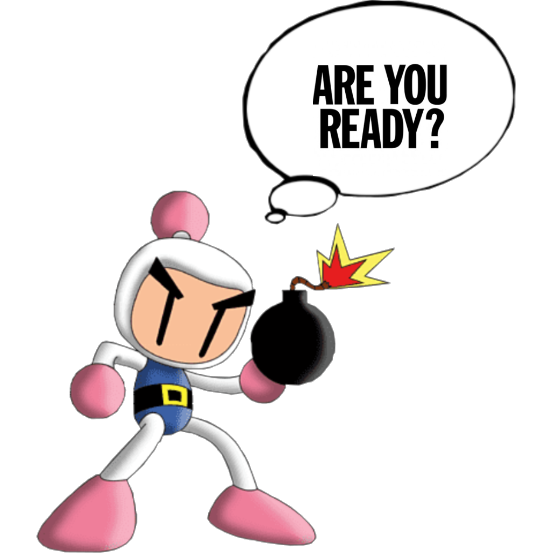
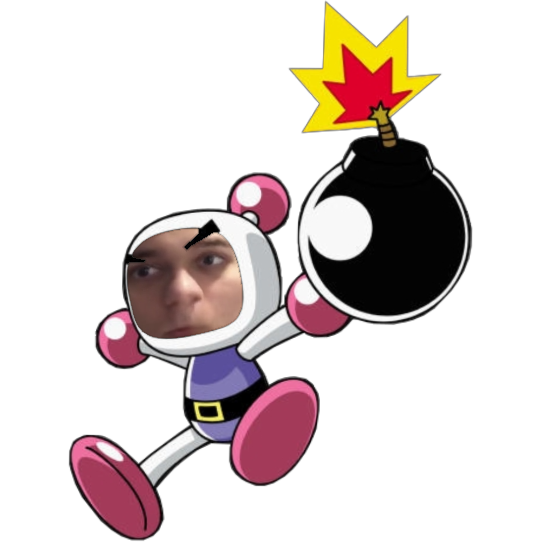
Menu de création de partie terminé

diff --git a/src/Game/Game.cpp b/src/Game/Game.cpp
@@ -19,6 +19,8 @@ vector<Button*> buttons;
 vector<Label*> labels;
 vector<Image*> images;
 
+Wall* wall;
+
 Game* Game::m_instance = nullptr;
 
 Game::Game() : m_currentTime(0), m_deltaTime(0), m_mousePos(vec2(0.0f)), m_directionalLight(vec3(-1.0f, -1.0f, -1.0f), vec3(0.1f), vec3(1.0f), vec3(1.0f)), m_gameState(GameState::MAIN_MENU), m_vsync(VSync::ONE_FRAME)
@@ -48,7 +50,7 @@ bool Game::init()
 		return false;
     }
 
-    loadRequieredResources();
+	loadRequieredResources();
 
     glfwSwapInterval(m_vsync);
 	glClearColor(0, 0, 0, 1);
@@ -91,12 +93,12 @@ bool Game::loadRequieredResources()
 	std::vector<string> assets = {
 		"white_texture.png", "black_texture.png", "home_background.png",
 		"space_background.png", "bomberboy_1.png", "bomberboy_2.png",
-		"blue_rectangle.png"
+		"bomberboy_3.png", "blue_rectangle.png"
 	};
 	std::vector<Texture*> textures = {
 		&Textures::whiteTexture, &Textures::blackTexture, &Textures::homeBackground,
 		&Textures::spaceBackground, &Textures::bomberboy1, &Textures::bomberboy2,
-		&Textures::blueRectangle
+		&Textures::bomberboy3, &Textures::blueRectangle
 	};
 	for (uint i = 0; i < assets.size(); i++) {
 		if (!Resource::loadTexture(("assets/"+assets[i]).c_str(), *textures[i])) {
@@ -239,7 +241,8 @@ void Game::setState(GameState state)
 
 		/* Load Images */
 		images.push_back(new Image(mainWindow, vec2(0, 0), vec2(0.5f, 0.5f), vec2(WINDOW_W/2), &Textures::blueRectangle));
-		images.push_back(new Image(mainWindow, vec2(0, 0), vec2(0.0f, 0.5f), vec2(WINDOW_W/4), &Textures::bomberboy1));
+		images.push_back(new Image(mainWindow, vec2(40, 100), vec2(1.0f, 0.0f), vec2(WINDOW_W/4), &Textures::bomberboy2));
+		images.push_back(new Image(mainWindow, vec2(0, 100), vec2(0.0f, 0.5f), vec2(WINDOW_W/3), &Textures::bomberboy3));
 		images.push_back(new Image(mainWindow, vec2(0, 0), vec2(0.5f, 0.5f), vec2(WINDOW_W), &Textures::spaceBackground));
 
 		cerr << "Loaded singleplayer menu in " << (glfwGetTime() - time) * 1000 << "ms" << endl;
@@ -259,16 +262,15 @@ void Game::setState(GameState state)
 		});
 
 		map = new Map();
-		map->generateMap(m_gameSettings[0]);
+		map->generateMap(m_gameSettings[0], m_gameSettings[2]);
 		
 		// Test de robots
-		for (int i=0; i < 10; i++) {
+		for (int i=0; i < m_gameSettings[4]; i++) {
 			Robot* robot = new Robot(map);
-			Bomb* bomb = new Bomb(map, vec3(rand()%100/100.0f, rand()%100/100.0f, rand()%100/100.0f), 5, 5);
-			robot->getTransform().setPosition(vec3(6.0f, 0.0f, 6.0f));
-			bomb->getTransform().setPosition(vec3(rand()%11+1, 0, rand()%11+1));
+			robot->getTransform().setPosition(vec3(1.0f, 0.0f, 1.0f) * float(rand()%m_gameSettings[0]));
+			//Bomb* bomb = new Bomb(map, vec3(rand()%100/100.0f, rand()%100/100.0f, rand()%100/100.0f), 5, 5);
+			//bomb->getTransform().setPosition(vec3(rand()%11+1, 0, rand()%11+1));
 			map->addActor(robot);
-			map->addActor(bomb);
 		}
 		
 		mainCamera->getTransform().setPosition(vec3(-6.0f, -12.0f, -16.0f));
@@ -281,6 +283,11 @@ void Game::setState(GameState state)
 	m_gameState = state;
 }
 
+bool Game::postInit() {
+	wall = new Wall(map);
+	return true;
+}
+
 void Game::update()
 {
 	glClear(GL_COLOR_BUFFER_BIT | GL_DEPTH_BUFFER_BIT);
@@ -290,7 +297,7 @@ void Game::update()
 
 	processInputs(mainWindow->getWindow());
 
-	Wall* wall = new Wall(map); wall->draw(); delete wall;
+	wall->draw();
 	for (auto label : labels) { label->draw(); }
 	for (auto button : buttons) { button->draw(); }
 	for (auto image : images) { image->draw(); }

diff --git a/src/Game/Map.cpp b/src/Game/Map.cpp
@@ -16,16 +16,14 @@ Map::~Map() {
 	}
 }
 
-void Map::generateMap(int size) {
-	if (size % 2 == 0) {
+void Map::generateMap(unsigned char size, unsigned char wallPercentage) {
+	if (size % 2 == 0)
 		size++;
-	}
-	this->mapSize = size;
-	int sizeMax = size-1;
-	for (int i = 0; i < size; i++) {
-		for (int j = 0; j < size; j++) {
-			glm::ivec2 pos = glm::ivec2(i, j);
-
+	this->mapSize = size;;
+	unsigned char sizeMax = size-1;
+	for (unsigned char i = 0; i < size; i++) {
+		for (unsigned char j = 0; j < size; j++) {
+			glm::ivec2 pos(i, j);
 			/**
 			 * @brief Metal Walls
 			 */
@@ -33,11 +31,10 @@ void Map::generateMap(int size) {
 				walls[pos] = new Wall(this, Wall::Type::Metal);
 				walls[pos]->getTransform().setPosition(glm::vec3(i, 0, j));
 			}
-
 			/**
 			 * @brief Random Walls
 			 */
-			else if (rand() % 10 <= 6) {
+			else if (rand() % 100 < wallPercentage) {
 				walls[pos] = new Wall(this, (rand()%5 == 0) ? Wall::Type::Stone : Wall::Type::Wood);
 				walls[pos]->getTransform().setPosition(glm::vec3(i, 0, j));
 			}

diff --git a/include/Game/Map.hpp b/include/Game/Map.hpp
@@ -17,16 +17,16 @@ class Map
 private:
 	std::vector<Actor*> actors;
 	std::map<glm::ivec2, Wall*, cmpVec> walls;
-	int mapSize;
+	unsigned char mapSize;
 
 public:
 	Map();
 	~Map();
 
-	void generateMap(int size = 13);
+	void generateMap(unsigned char size = 13, unsigned char wallPercentage = 90);
 	void addActor(Actor* actor);
 
-	inline int getSize() { return mapSize; }
+	inline int getSize() { std::cerr << mapSize << std::endl; return mapSize; }
 
 	void draw();
 	void update(float deltaTime);

diff --git a/src/main.cpp b/src/main.cpp
@@ -32,6 +32,7 @@ int main(int argc, char **argv)
 	//Text::init();
 
 	Game* game = Game::getInstance();
+	game->postInit();
 
     while(!glfwWindowShouldClose(game->getMainWindow()->getWindow()))
     {

diff --git a/include/Engine/Texture.hpp b/include/Engine/Texture.hpp
@@ -14,4 +14,5 @@ namespace Textures {
 	static Texture blueRectangle;
 	static Texture bomberboy1;
 	static Texture bomberboy2;
+	static Texture bomberboy3;
 }

diff --git a/include/Game/Game.hpp b/include/Game/Game.hpp
@@ -51,6 +51,7 @@ public:
 
     ~Game();
 
+	bool postInit();
     void update();
 
     /**
